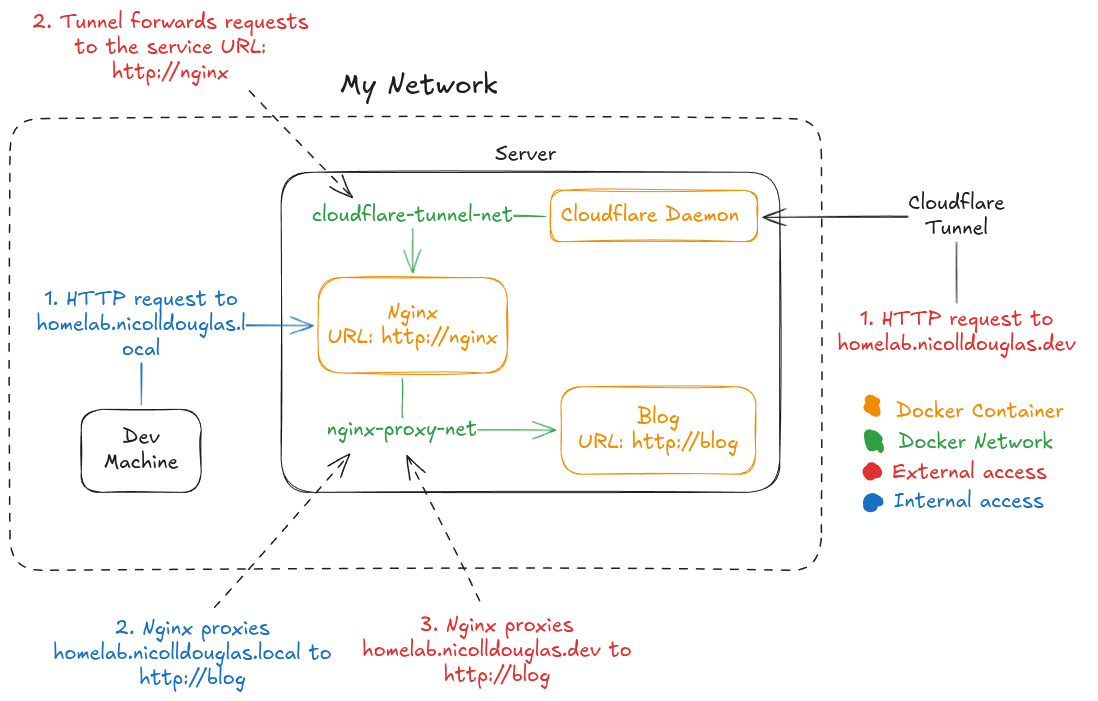
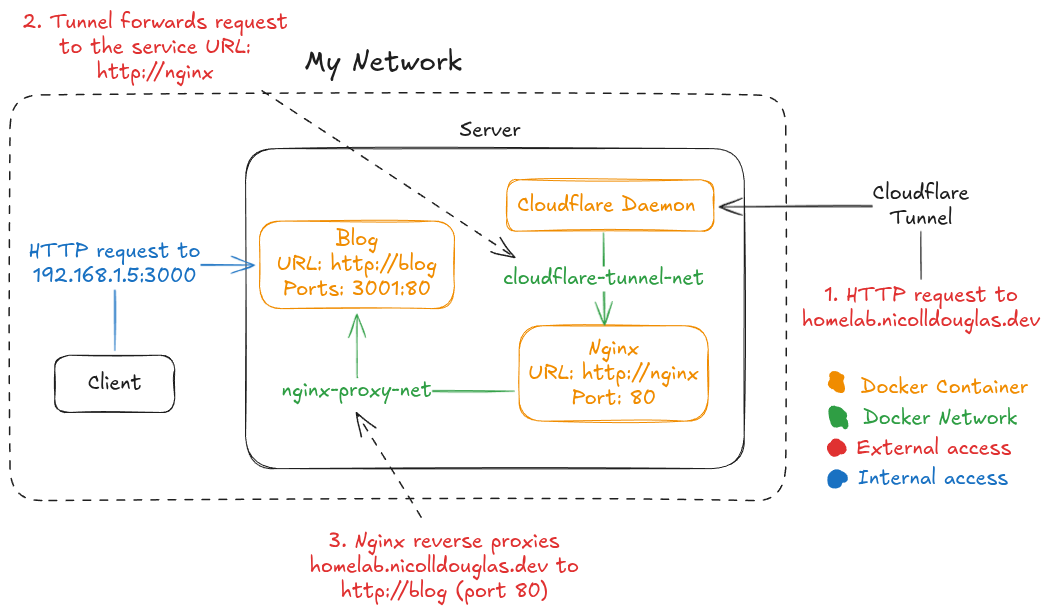
update content

diff --git a/public/blog/2025-06-12-dockerizing-nginx/index.php b/public/blog/2025-06-12-dockerizing-nginx/index.php
@@ -11,7 +11,7 @@ require alias("@head");
 <section>
   <h2>Dockerization</h2>
 
-  <p>I figured that it would be easiest to add an Nginx service to my Docker Compose file in my homelab directory/repo where I defined the Cloudflare service. This would create one holistic "web" service allowing me to access this site's container as well as others more cleanly with Nginx reverse proxies, both locally and externally. I added the following definitions to the Docker compose file in order to achieve this:</p>
+  <p>I figured that it would be easiest to add an Nginx service to my Docker Compose file in my homelab directory/repo where I defined the Cloudflare service. This would create one holistic "web" service allowing me to access this site's container as well as others more cleanly with Nginx reverse proxies externally. I added the following definitions to the Docker compose file in order to achieve this:</p>
 
   <?php
   $code = <<<DC
@@ -26,8 +26,6 @@ require alias("@head");
       - ../../config/nginx/nginx.conf:/etc/nginx/nginx.conf:ro
       - ../../config/nginx/sites:/etc/nginx/sites-enabled:ro
       - ../../logs/nginx:/var/log/nginx
-    ports:
-      - "80:80"
 
 networks:
   cloudflare-tunnel-net:
@@ -42,8 +40,6 @@ DC;
 
   <p>Now the flow of HTTP requests through the tunnel could access the appropriate container, provided I mapped the domain name in the Cloudflare dashboard to http://nginx (which I did) which would be new the service URL in the tunnel.</p>
 
-  <p>With the Docker Compose setup, I would also expose and bind host port 80 to the Nginx container so that I could access my website over my local network via the appropriate Nginx reverse proxy. I also made sure to uninstall Nginx from my machine to avoid any conflicts and since I wouldn't be needing it anymore.</p>
-
   <p>Creating this setup also taught me a bit about how Docker networks work in more detail. Networks not defined as external in a Docker Compose file will be automatically created when you bring up the containers and only accessible to services in the same Docker Compose projects, i.e <code>cloudflare-tunnel-net</code>. Networks defined otherwise have to be manually created before Docker can bring them into the Compose. Defining them as external also allows services in other Docker Compose projects to use them, i.e <code>nginx-proxy-net</code> (these networks live outside the Compose lifecycle).</p>
 
   <p>I then created <code>nginx-proxy-net</code> with <code>docker network create nginx-proxy-net</code>. Now everything was in place in order to Dockerize Nginx and update my setup.</p>
@@ -52,15 +48,18 @@ DC;
 <section>
   <h2>Site Configuration & Starting Containers</h2>
 
-  <p>I updated my site's <code>docker-compose.yml</code> to use the new external <code>nginx-proxy-net</code> network instead of the old <code>cloudflare-tunnel-net</code> which was repurposed. I then changed the container name and restarted the container. The container would now be accessible over <code>nginx-proxy-net</code> via http://blog, which we would use in the Nginx site configuration.</p>
+  <p>Firstly, in order to gain access to my site over my private network, I binded its container port 80 to host port 3001 in its Docker Compose file on the server. This was now instead of accessing it via the old Nginx reverse proxy setup which was gone. I then updated my firewall to allow forwarding to any port 80. This was achieved with the following: <code>sudo ufw route allow 80/tcp</code>. I restarted the firewall and container, and then navigated in the browser to http://192.168.1.5:3000. The site showed up so internal access was in order.</p>
 
-  <p>My Nginx container would be using the <code>config/nginx/sites</code> directory as a bind mount for the Nginx virtual host definitions. So I created a <code>blog.conf</code> file which would be the configuration used to reverse proxy to the container. This is what the configuration ended up looking like:</p>
+
+  <p>Next, I updated my site's <code>docker-compose.yml</code> to use the new external <code>nginx-proxy-net</code> network (for Nginx access) instead of the old <code>cloudflare-tunnel-net</code> which was repurposed. I then changed the container name and restarted the container. The container would now be accessible over <code>nginx-proxy-net</code> via http://blog, which we would use in the Nginx site configuration.</p>
+
+  <p>My Nginx container would be using the <code>config/nginx/sites</code> directory in my local repo as a bind mount for the Nginx virtual host definitions. So I created a <code>blog.conf</code> file in the directory which would be the site configuration used to reverse proxy to the container. This is what the configuration ended up looking like:</p>
 
   <?php
   $code = <<<'DC'
 server {
     listen 80;
-    server_name homelab.nicolldouglas.dev homelab.nicolldouglas.local;
+    server_name homelab.nicolldouglas.dev;
 
     location / {
         proxy_pass http://blog;
@@ -74,15 +73,11 @@ DC;
   require alias("@code");
   ?>
 
-  <p>Now, any incoming HTTP requests from the tunnel where the Host header matched the <code>server_name</code>s would be reverse proxied to http://blog via the <code>nginx-proxy-net</code> network. homelab.nicolldouglas.dev would be the public facing domain, and homelab.nicolldouglas.local would the the private one solely for access from my dev machine.</p>
+  <p>With this, any incoming HTTP requests from the tunnel where the "Host" header matched the <code>server_name</code> directive would be reverse proxied to http://blog via the <code>nginx-proxy-net</code> network.</p>
 
-  <p>My site configurations were now in place in order for my Nginx-Cloudflare setup to proxy to my container. Now it was time to start my Nginx-Cloudflare setup. I ran <code>docker compose up</code>, checked that the containers were running as well as the logs. In my Cloudflare dashboard, the tunnel was also show as online. All seemed fine so I navigated to https://homelab.nicolldouglas.dev to see if my site was accessible, and indeed it was so the setup was fully functional.</p>
+  <p>Now it was time to start my Nginx-Cloudflare setup. I ran <code>docker compose up</code>, checked that the containers were running as well as the logs. In my Cloudflare dashboard, the tunnel was also shown as online. All seemed fine so I navigated to https://homelab.nicolldouglas.dev to see if my site was accessible, and indeed it was so the setup was fully functional for external access.</p>
 
-  <p>In order to access my site over my private network from my dev machine, I added the following line to my <code>/etc/hosts</code> file: <code>192.168.1.5 homelab.nicolldouglas.local</code>. I tested in the browser and it also showed up—double success.</p>
-
-  <p>As well as doing that, I updated my firewall to allow forwarding to the Nginx container port (80) from my main machine. This was achieved with the following: <code>sudo ufw route allow from 192.168.1.6 to any port 80 proto tcp</code></p>
-
-  <p>But now, I had successfully Dockerized Nginx and cleaned up the setup of my web services. Below is a diagram of how the archicture looks now:</p>
+  <p>With that, I had successfully Dockerized Nginx and cleaned up the setup and access of my web services. Below is a diagram of how the archicture looks now:</p>
 
   <img src="./architecture.png" width="700" alt="Web services architecture">
 </section>
